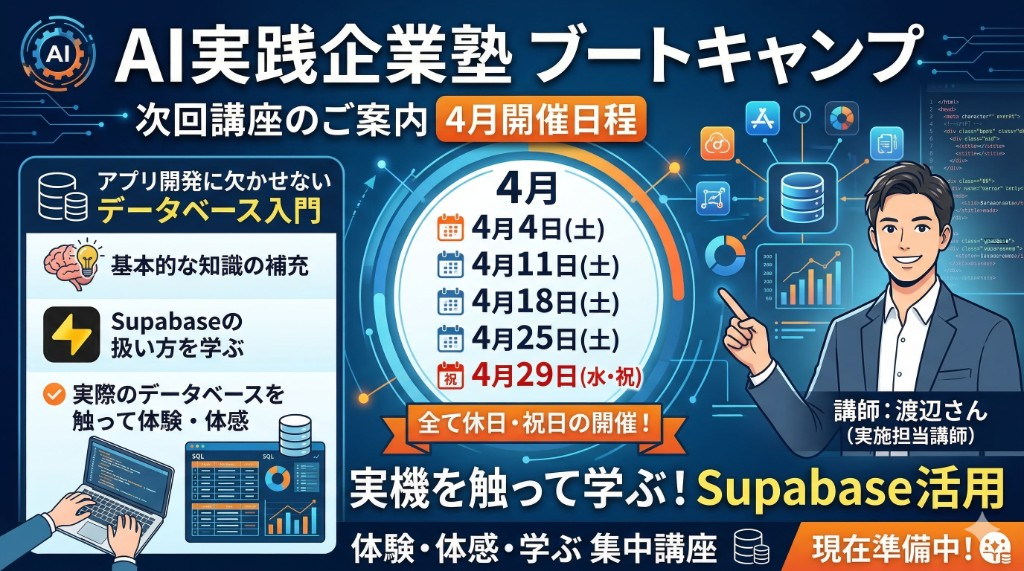
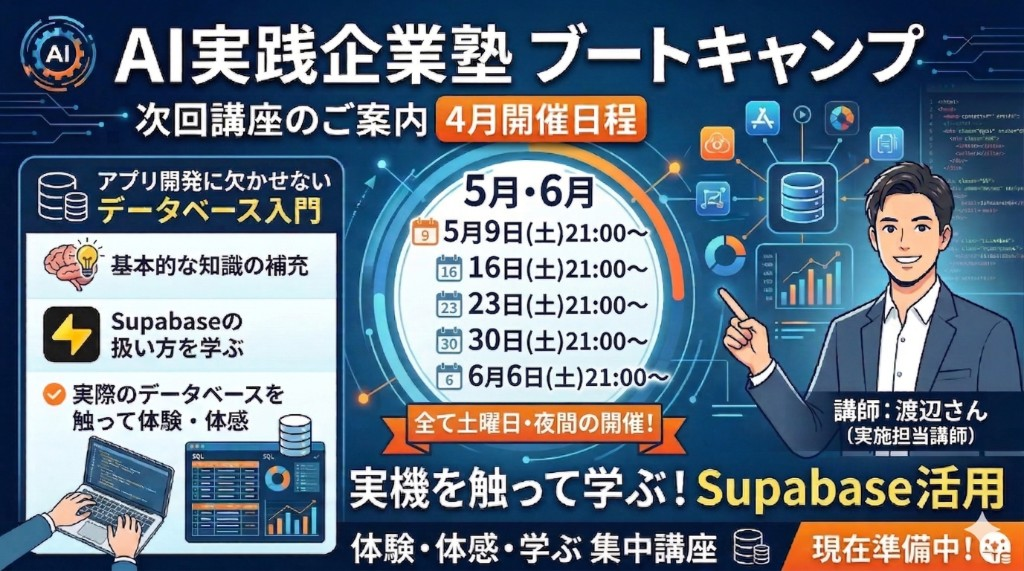
NEWSページのバナー画像と日程を5月・6月版に更新
Made-with: Cursor

diff --git a/05_app/app/new-release/page.tsx b/05_app/app/new-release/page.tsx
@@ -57,7 +57,7 @@ export default function NewReleasePage() {
               {/* Introduction */}
               <div className="bg-card p-8 rounded-2xl border border-border mb-12">
                 <p className="text-lg leading-relaxed" style={{ color: '#001B3A' }}>
-                  AI実践企業塾の皆様、お待たせいたしました！4月、あなたのスキルを一段上のステージへ引き上げる、超実践型ブートキャンプを開催します。
+                  AI実践企業塾の皆様、お待たせいたしました！5月・6月、あなたのスキルを一段上のステージへ引き上げる、超実践型ブートキャンプを開催します。
                 </p>
               </div>
 
@@ -101,14 +101,14 @@ export default function NewReleasePage() {
                   5日間のカリキュラム（完全ハンズオン形式）
                 </h3>
                 <p className="text-lg text-muted-foreground mb-8">
-                  土曜の朝、少し早起きして「一生物の資産」を手に入れませんか？
+                  土曜の夜、「一生物の資産」を手に入れませんか？
                 </p>
 
                 <div className="space-y-6">
                   {/* Day 1 */}
                   <div className="bg-card p-6 rounded-xl border border-border">
                     <h4 className="text-xl font-bold text-primary mb-3">
-                      Day 1：4/4(土) 基礎固め「Excel地獄からの脱出」
+                      Day 1：5/9(土) 21:00〜 基礎固め「Excel地獄からの脱出」
                     </h4>
                     <p className="text-foreground/80 leading-relaxed">
                       スプレッドシートの限界を知り、リレーショナルデータベース（RDB）の思考をインストール。
@@ -118,7 +118,7 @@ export default function NewReleasePage() {
                   {/* Day 2 */}
                   <div className="bg-card p-6 rounded-xl border border-border">
                     <h4 className="text-xl font-bold text-primary mb-3">
-                      Day 2：4/11(土) 設計の真髄「プロの設計図・ER図」
+                      Day 2：5/16(土) 21:00〜 設計の真髄「プロの設計図・ER図」
                     </h4>
                     <p className="text-foreground/80 leading-relaxed">
                       データの重複を許さない「正規化」とテーブル同士のリレーションを学びます。
@@ -128,7 +128,7 @@ export default function NewReleasePage() {
                   {/* Day 3 */}
                   <div className="bg-card p-6 rounded-xl border border-border">
                     <h4 className="text-xl font-bold text-primary mb-3">
-                      Day 3：4/18(土) 実装フェーズ「SupabaseとSQL」
+                      Day 3：5/23(土) 21:00〜 実装フェーズ「SupabaseとSQL」
                     </h4>
                     <p className="text-foreground/80 leading-relaxed">
                       実際にSupabaseを構築。データのやり取りに欠かせないSQLと言語を習得。
@@ -138,7 +138,7 @@ export default function NewReleasePage() {
                   {/* Day 4 */}
                   <div className="bg-card p-6 rounded-xl border border-border">
                     <h4 className="text-xl font-bold text-primary mb-3">
-                      Day 4：4/25(土) 堅牢性を生む「セキュリティとアクセス制御」
+                      Day 4：5/30(土) 21:00〜 堅牢性を生む「セキュリティとアクセス制御」
                     </h4>
                     <p className="text-foreground/80 leading-relaxed">
                       プロの現場で必須となる、安全なデータ管理の仕組みを構築します。
@@ -148,7 +148,7 @@ export default function NewReleasePage() {
                   {/* Day 5 */}
                   <div className="bg-card p-6 rounded-xl border border-border">
                     <h4 className="text-xl font-bold text-primary mb-3">
-                      Day 5：4/29(祝) 完結「アプリ公開・世界へデプロイ」
+                      Day 5：6/6(土) 21:00〜 完結「アプリ公開・世界へデプロイ」
                     </h4>
                     <p className="text-foreground/80 leading-relaxed">
                       CursorでUIを作成し、Vercelへデプロイ。自分の作ったシステムが世界中で動く感動を！
